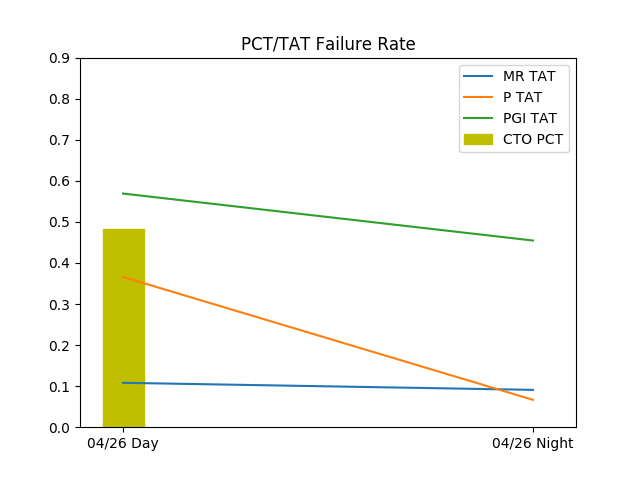
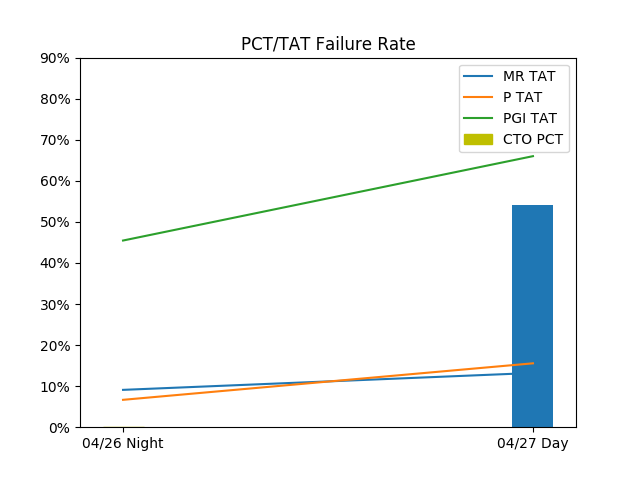
fixed x-using backend bug

diff --git a/dev/tmp/asdf.py b/dev/tmp/asdf.py
@@ -5,6 +5,9 @@ import collections
 from collections import defaultdict
 from pprint import pprint
 
+import matplotlib
+matplotlib.use('Agg')
+
 conn = pymssql.connect("16.187.224.112", "sa", "support", "FE2CheckPoint")
 cursor = conn.cursor(as_dict=True)
 cursor.execute("""
@@ -21,7 +24,7 @@ cursor.execute("""
 FailRate = defaultdict(lambda: {})
 for row in cursor:
 	if (row['Name'][-8:] == 'FailRate'):
-		if (row['Shift'][-2:] == '11'):
+		if (row['Shift'][-2:] == '08'):
 			FailRate[row['Shift'][3:8] + ' Day'].update({row['Name']:float(row['Value'])})
 		if (row['Shift'][-2:] == '20'):
 			FailRate[row['Shift'][3:8] + ' Night'].update({row['Name']:float(row['Value'])})
@@ -41,23 +44,18 @@ pprint(y['MR_FailRate'])
 
 ind = np.arange(N)    # the x locations for the groups    "{:.0%}".format()
 	
-width = 0.35       # the width of the bars: can also be len(x) sequence
+width = 0.1       # the width of the bars: can also be len(x) sequence
 
-plt.plot(y['MR_FailRate'])
-# p2 = plt.plot(ind, y['P_FailRate'])
-# p3 = plt.plot(ind, y['PGI_FailRate'])
-# p4 = plt.bar(ind, y['CTO_FailRate'], width)
+plt.plot(ind, y['MR_FailRate'])
+plt.plot(ind, y['P_FailRate'])
+plt.plot(ind, y['PGI_FailRate'])
+plt.bar(ind, y['CTO_FailRate'], width)
 
 plt.title('PCT/TAT Failure Rate')
 plt.legend(['MR TAT', 'P TAT', 'PGI TAT', 'CTO PCT'], loc='upper left')
-# plt.legend((p1[0], p2[0], p3[0], p4[0]), ('MR TAT', 'P TAT', 'PGI TAT', 'CTO PCT'), loc='upper left')
 
-
-# p1 = plt.bar(ind, menMeans, width, color='#d62728')
-# p2 = plt.bar(ind, womenMeans, width, bottom=menMeans)
 
 plt.xticks(ind, x)
 plt.yticks(np.arange(0, 1, 0.1))
-# plt.legend((p1[0], p2[0]), ('Men', 'Women'))
 
 plt.savefig('plot.png')

diff --git a/Dashboard/make_plot.py b/Dashboard/make_plot.py
@@ -1,10 +1,15 @@
 # a stacked bar plot
 # -*- coding: utf-8 -*-  
+import matplotlib
+# Force matplotlib to not use any Xwindows backend.
+matplotlib.use('Agg')
+
 import numpy as np
 import matplotlib.pyplot as plt
 import pymssql
 import collections
 from collections import defaultdict
+
 
 def make_plot(Shift):
 	# Get PCT data in 12 hours from 112 DB

diff --git a/dev/make_plot.py b/dev/make_plot.py
@@ -1,10 +1,15 @@
 # a stacked bar plot
 # -*- coding: utf-8 -*-  
+import matplotlib
+# Force matplotlib to not use any Xwindows backend.
+matplotlib.use('Agg')
+
 import numpy as np
 import matplotlib.pyplot as plt
 import pymssql
 import collections
 from collections import defaultdict
+
 
 def make_plot(Shift):
 	# Get PCT data in 12 hours from 112 DB
